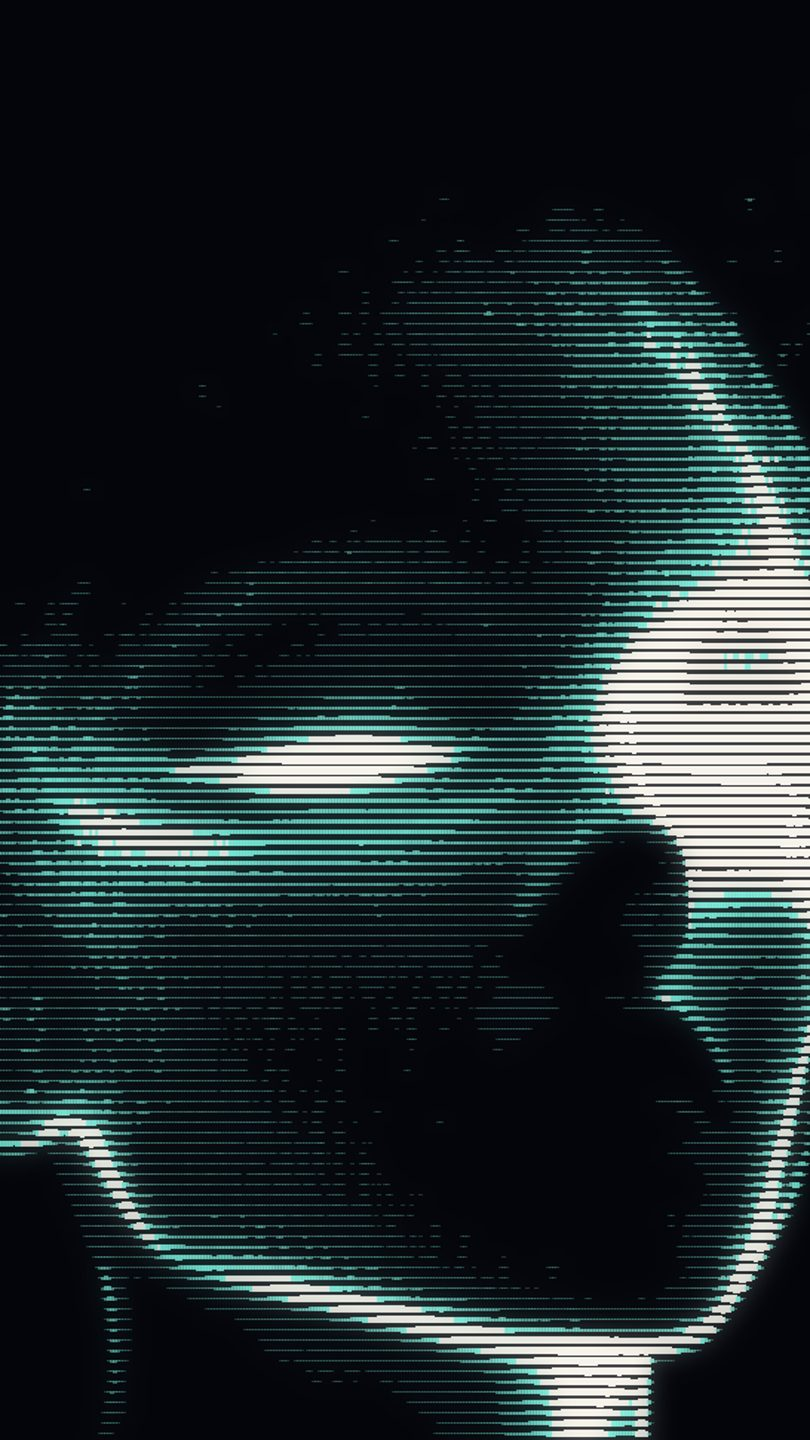
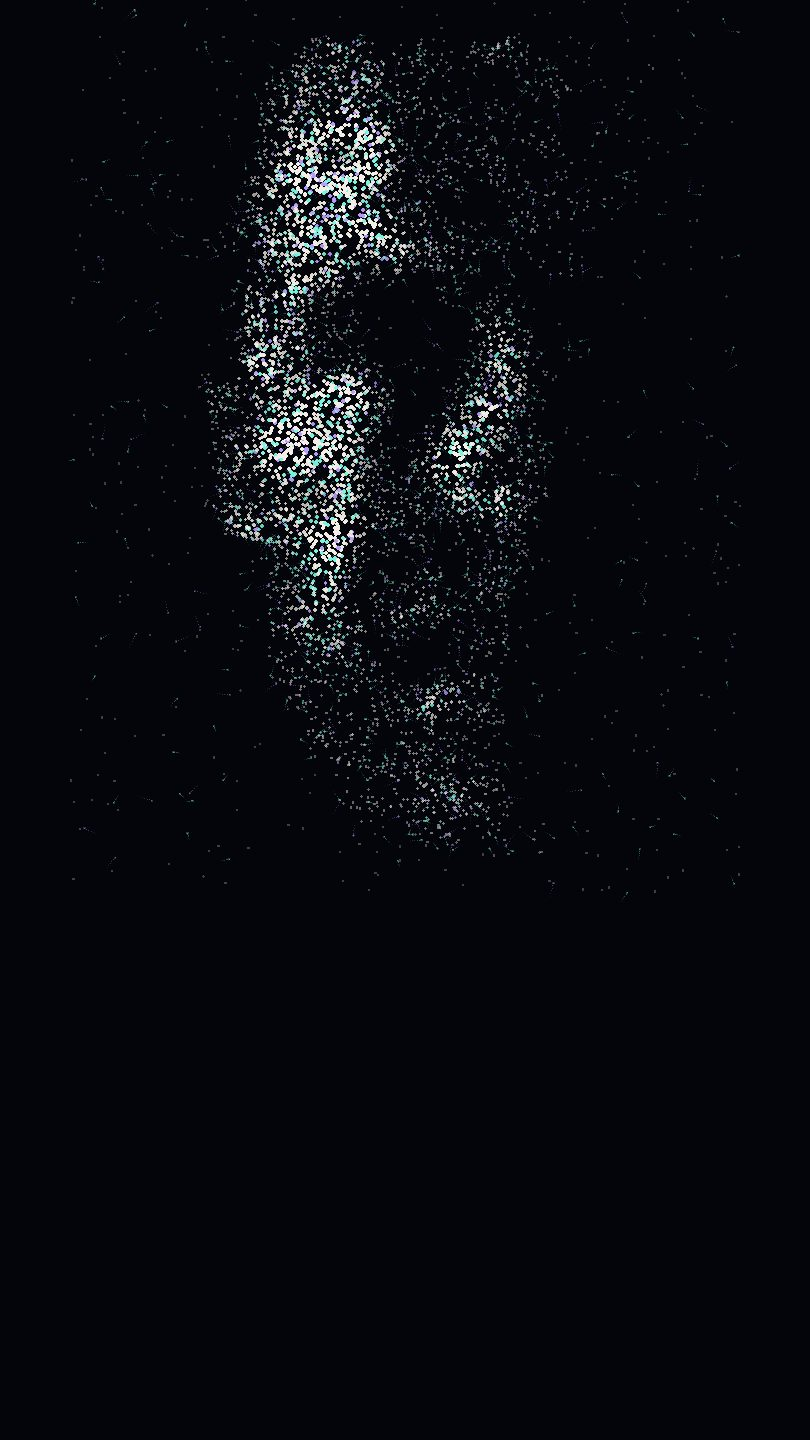
New hero

diff --git a/src/assets/js/asai.js b/src/assets/js/asai.js
@@ -5,24 +5,49 @@
 const prefersReducedMotion = matchMedia("(prefers-reduced-motion: reduce)").matches;
 
 /* ---------------------------------------------------------
-   Hero: the face as scanlines. The lines are rendered once to an
-   offscreen canvas from the bust's luminance (line thickness follows
-   brightness, like a CRT), then animated cheaply every frame: a refresh
-   sweep travelling down, a few rows of horizontal jitter, a soft breathe
-   and pointer parallax. Reduced motion keeps the static poster.
+   Hero: the drift field. The same stipple face as the section below,
+   larger and right of the headline. Dots ride a slow flow field and
+   leave fading trails; on a ~10 s cycle the face loosens into streams
+   and pulls itself back together. Colour follows motion: still dots are
+   cream, moving dots cyan, the fastest violet. Reduced motion keeps the
+   static poster.
    --------------------------------------------------------- */
-function initHeroLines() {
-  const root = document.querySelector("[data-hero-lines]");
+function initHeroDrift() {
+  const root = document.querySelector("[data-hero-drift]");
   const canvas = root?.querySelector("canvas");
   const src = root?.dataset.src;
   if (!root || !canvas || !src || prefersReducedMotion) return;
   const ctx = canvas.getContext("2d", { alpha: false });
   if (!ctx) return;
 
-  const styles = getComputedStyle(root);
-  const colorVoid = styles.getPropertyValue("--void").trim() || "#04050a";
-  const colorCyan = styles.getPropertyValue("--cyan").trim() || "#7cf4e0";
-  const colorCream = styles.getPropertyValue("--cream").trim() || "#f4efe6";
+  const CREAM = [244, 239, 230];
+  const CYAN = [124, 244, 224];
+  const VIOLET = [183, 156, 255];
+  const rgba = (c, a) => `rgba(${c[0] | 0},${c[1] | 0},${c[2] | 0},${a})`;
+  const mix = (p, q, t) => [p[0] + (q[0] - p[0]) * t, p[1] + (q[1] - p[1]) * t, p[2] + (q[2] - p[2]) * t];
+
+  // small value-noise field for the drift
+  const perm = new Uint8Array(512);
+  for (let i = 0; i < 256; i++) perm[i] = i;
+  for (let i = 255; i > 0; i--) {
+    const j = (Math.random() * (i + 1)) | 0;
+    [perm[i], perm[j]] = [perm[j], perm[i]];
+  }
+  for (let i = 0; i < 256; i++) perm[256 + i] = perm[i];
+  const fade = (t) => t * t * t * (t * (t * 6 - 15) + 10);
+  const lerp = (p, q, t) => p + t * (q - p);
+  const grad = (h, x, y) => (h & 1 ? -x : x) + (h & 2 ? -y : y);
+  function noise(x, y) {
+    const X = Math.floor(x) & 255;
+    const Y = Math.floor(y) & 255;
+    x -= Math.floor(x);
+    y -= Math.floor(y);
+    const u = fade(x);
+    const v = fade(y);
+    const A = perm[X] + Y;
+    const B = perm[X + 1] + Y;
+    return lerp(lerp(grad(perm[A], x, y), grad(perm[B], x - 1, y), u), lerp(grad(perm[A + 1], x, y - 1), grad(perm[B + 1], x - 1, y - 1), u), v);
+  }
 
   const image = new Image();
   image.decoding = "async";
@@ -31,53 +56,13 @@ function initHeroLines() {
   let width = 0;
   let height = 0;
   let dpr = 1;
-  let lines = null; // offscreen render of the scanlines
-  let box = { x: 0, y: 0, w: 0, h: 0 }; // where the figure sits
+  let pts = [];
   let pointer = { x: 0, y: 0 };
   let target = { x: 0, y: 0 };
   let frame = 0;
   let visible = true;
-  let jitter = []; // [{y, h, dx}]
-  let lastJitter = 0;
 
-  function renderLines() {
-    const pitch = width > 900 ? 6 : 5;
-    const col = 2;
-    const wide = width > 900;
-    // figure: fit the hero height on desktop, right of centre; on phones most of the width, at the top
-    const w = wide ? image.naturalWidth * (height / image.naturalHeight) : width * 0.78;
-    const h = image.naturalHeight * (w / image.naturalWidth);
-    const x0 = wide ? width * 0.72 - w / 2 : (width - w) / 2;
-    const y0 = wide ? 0 : -height * 0.02;
-    box = { x: x0, y: y0, w, h };
-    const cols = Math.ceil(w / col);
-    const rows = Math.ceil(h / pitch);
-    const off = document.createElement("canvas");
-    off.width = cols;
-    off.height = rows;
-    const octx = off.getContext("2d", { willReadFrequently: true });
-    octx.drawImage(image, 0, 0, cols, rows);
-    const data = octx.getImageData(0, 0, cols, rows).data;
-    lines = document.createElement("canvas");
-    lines.width = Math.ceil(width * dpr);
-    lines.height = Math.ceil(height * dpr);
-    const lctx = lines.getContext("2d");
-    lctx.scale(dpr, dpr);
-    for (let r = 0; r < rows; r++) {
-      const y = y0 + r * pitch + pitch / 2;
-      for (let c = 0; c < cols; c++) {
-        const l = Math.pow(data[(r * cols + c) * 4] / 255, 0.9);
-        if (l < 0.05) continue;
-        const th = Math.max(0.6, l * (pitch - 1.5));
-        lctx.globalAlpha = Math.min(1, 0.15 + l * 1.2);
-        lctx.fillStyle = l > 0.7 ? colorCream : colorCyan;
-        lctx.fillRect(x0 + c * col, y - th / 2, col, th);
-      }
-    }
-    lctx.globalAlpha = 1;
-  }
-
-  function layout() {
+  function build() {
     const rect = canvas.getBoundingClientRect();
     dpr = Math.min(devicePixelRatio || 1, 2);
     width = Math.round(rect.width);
@@ -85,69 +70,61 @@ function initHeroLines() {
     canvas.width = width * dpr;
     canvas.height = height * dpr;
     ctx.setTransform(dpr, 0, 0, dpr, 0, 0);
-    renderLines();
+    ctx.fillStyle = "#04050a";
+    ctx.fillRect(0, 0, width, height);
+    // figure: fills the hero height, right of centre on desktop; most of the width, at the top, on phones
+    const wide = width > 900;
+    const fh = wide ? height * 1.02 : (width * 0.85 * image.naturalHeight) / image.naturalWidth;
+    const fw = (image.naturalWidth * fh) / image.naturalHeight;
+    const fx = wide ? width * 0.72 - fw / 2 : (width - fw) / 2;
+    const fy = wide ? -height * 0.01 : -height * 0.02;
+    const cols = 180;
+    const rows = Math.round((cols * image.naturalHeight) / image.naturalWidth);
+    const off = document.createElement("canvas");
+    off.width = cols;
+    off.height = rows;
+    const octx = off.getContext("2d", { willReadFrequently: true });
+    octx.drawImage(image, 0, 0, cols, rows);
+    const data = octx.getImageData(0, 0, cols, rows).data;
+    pts = [];
+    const n = Math.round((width * height) / 190);
+    let guard = 0;
+    while (pts.length < n && guard++ < n * 40) {
+      const c = (Math.random() * cols) | 0;
+      const r = (Math.random() * rows) | 0;
+      const l = data[(r * cols + c) * 4] / 255;
+      if (Math.random() > Math.pow(l, 0.9) * 0.9 + 0.02) continue;
+      const x = fx + ((c + Math.random()) / cols) * fw;
+      const y = fy + ((r + Math.random()) / rows) * fh;
+      pts.push({ hx: x, hy: y, x, y, vx: 0, vy: 0, l, s: Math.random() });
+    }
   }
 
   function draw(t) {
     const time = t / 1000;
-    ctx.fillStyle = colorVoid;
-    ctx.fillRect(0, 0, width, height);
-    if (!lines) return;
     pointer.x += (target.x - pointer.x) * 0.04;
     pointer.y += (target.y - pointer.y) * 0.04;
-    const dx = pointer.x * 10;
-    const dy = pointer.y * 6 + Math.sin(time * 0.5) * 2;
-    const breathe = 0.86 + 0.08 * Math.sin(time * 0.9);
-
-    // the figure, with parallax and a slow breathe in brightness
-    ctx.globalAlpha = breathe;
-    ctx.drawImage(lines, 0, 0, lines.width, lines.height, dx, dy, width, height);
-
-    // horizontal jitter: a few rows slip sideways for a moment, like a loose signal
-    if (time - lastJitter > 0.35) {
-      lastJitter = time;
-      jitter = [];
-      if (Math.random() < 0.55) {
-        const n = 1 + ((Math.random() * 3) | 0);
-        for (let i = 0; i < n; i++) {
-          jitter.push({ y: box.y + Math.random() * box.h, h: 3 + Math.random() * 14, dx: (Math.random() - 0.5) * 26 });
-        }
-      }
+    // trails: fade the last frame instead of clearing it
+    ctx.fillStyle = "rgba(4,5,10,0.22)";
+    ctx.fillRect(0, 0, width, height);
+    // the field swells and fades on a ~10 s cycle
+    const loose = 0.5 + 0.5 * Math.sin(time * 0.6);
+    for (const p of pts) {
+      const tx = p.hx + pointer.x * (12 + p.s * 18);
+      const ty = p.hy + pointer.y * (8 + p.s * 10);
+      const a = noise(p.x * 0.004 + time * 0.05, p.y * 0.004) * Math.PI * 2;
+      p.vx += (tx - p.x) * 0.05 * (1 - loose * 0.7) + Math.cos(a) * 0.55 * loose;
+      p.vy += (ty - p.y) * 0.05 * (1 - loose * 0.7) + Math.sin(a) * 0.55 * loose;
+      p.vx *= 0.86;
+      p.vy *= 0.86;
+      p.x += p.vx;
+      p.y += p.vy;
+      const sp = Math.min(1, Math.hypot(p.vx, p.vy) / 2.5);
+      const col = sp < 0.5 ? mix(CREAM, CYAN, sp * 2) : mix(CYAN, VIOLET, (sp - 0.5) * 2);
+      ctx.fillStyle = rgba(col, Math.min(1, 0.25 + p.l * 0.8));
+      const r = 0.7 + p.l * 1.2;
+      ctx.fillRect(p.x - r / 2, p.y - r / 2, r, r);
     }
-    for (const j of jitter) {
-      const sy = j.y * dpr;
-      const sh = j.h * dpr;
-      ctx.fillStyle = colorVoid;
-      ctx.fillRect(0, j.y + dy, width, j.h);
-      ctx.drawImage(lines, 0, sy, lines.width, sh, dx + j.dx, j.y + dy, width, j.h);
-    }
-
-    // refresh sweep: a soft band travelling down the figure, brightening the lines it crosses
-    const period = 7;
-    const p = (time % period) / period;
-    const bandY = box.y - 80 + p * (box.h + 160);
-    const bandH = 110;
-    ctx.save();
-    ctx.globalCompositeOperation = "lighter";
-    const g = ctx.createLinearGradient(0, bandY, 0, bandY + bandH);
-    g.addColorStop(0, "rgba(124,244,224,0)");
-    g.addColorStop(0.5, "rgba(124,244,224,0.9)");
-    g.addColorStop(1, "rgba(124,244,224,0)");
-    ctx.globalAlpha = 0.5;
-    ctx.beginPath();
-    ctx.rect(0, bandY, width, bandH);
-    ctx.clip();
-    ctx.drawImage(lines, 0, 0, lines.width, lines.height, dx, dy, width, height);
-    ctx.globalAlpha = 0.07;
-    ctx.fillStyle = g;
-    ctx.fillRect(0, bandY, width, bandH);
-    ctx.restore();
-
-    // a faint raster over everything, so the whole hero reads as a screen
-    ctx.globalAlpha = 0.06;
-    ctx.fillStyle = colorVoid;
-    for (let y = ((time * 18) % 4) - 4; y < height; y += 4) ctx.fillRect(0, y, width, 1);
-    ctx.globalAlpha = 1;
   }
 
   function tick(t) {
@@ -157,7 +134,7 @@ function initHeroLines() {
 
   function start() {
     root.classList.add("is-live");
-    layout();
+    build();
     new IntersectionObserver(
       ([entry]) => {
         visible = entry.isIntersecting;
@@ -181,7 +158,7 @@ function initHeroLines() {
     let resizeTimer = 0;
     addEventListener("resize", () => {
       clearTimeout(resizeTimer);
-      resizeTimer = setTimeout(layout, 150);
+      resizeTimer = setTimeout(build, 150);
     });
   }
 
@@ -426,7 +403,7 @@ function initJourney() {
   if (journey.classList.contains("is-in")) steps.forEach((s) => s.classList.add("is-lit"));
 }
 
-initHeroLines();
+initHeroDrift();
 initDataFace();
 initMonologue();
 initJourney();

diff --git a/src/assets/css/styles.css b/src/assets/css/styles.css
@@ -662,13 +662,13 @@ html.js [data-reveal="d3"]{transition-delay:.3s}
    Figures are inline SVG / canvas; asai.js drives the canvas,
    the monologue and the journey stepper via data-* hooks.
    --------------------------------------------------------- */
-/* hero: the face as scanlines, drawn live by asai.js (static poster until it starts) */
+/* hero: the stipple face as a drift field, drawn live by asai.js (static poster until it starts) */
 .page-hero--tall{min-height:min(82vh,50rem)}
-.bg-lines{position:absolute;inset:0;z-index:0;overflow:hidden;background:var(--void);pointer-events:none}
-.bg-lines__canvas,.bg-lines__fallback{position:absolute;inset:0;width:100%;height:100%;display:block;object-fit:cover;object-position:right center}
-.bg-lines.is-live .bg-lines__fallback{display:none}
-.bg-lines:not(.is-live) .bg-lines__canvas{display:none}
-.bg-lines::after{content:"";position:absolute;inset:0;background:linear-gradient(90deg,rgba(4,5,10,.6),rgba(4,5,10,.2) 40%,transparent 65%),linear-gradient(180deg,rgba(4,5,10,.35),transparent 30%,transparent 65%,var(--void))}
+.bg-drift{position:absolute;inset:0;z-index:0;overflow:hidden;background:var(--void);pointer-events:none}
+.bg-drift__canvas,.bg-drift__fallback{position:absolute;inset:0;width:100%;height:100%;display:block;object-fit:cover;object-position:right center}
+.bg-drift.is-live .bg-drift__fallback{display:none}
+.bg-drift:not(.is-live) .bg-drift__canvas{display:none}
+.bg-drift::after{content:"";position:absolute;inset:0;background:linear-gradient(90deg,rgba(4,5,10,.6),rgba(4,5,10,.2) 40%,transparent 65%),linear-gradient(180deg,rgba(4,5,10,.35),transparent 30%,transparent 65%,var(--void))}
 
 /* the "data face": canvas + internal monologue */
 .mind{display:grid;grid-template-columns:minmax(0,1.25fr) minmax(17rem,.75fr);gap:1px;border:1px solid var(--line);border-radius:var(--radius);background:var(--line);overflow:hidden;box-shadow:0 30px 90px rgba(0,0,0,.45)}
@@ -785,8 +785,8 @@ html:not(.js) .journey__node::after{opacity:1;transform:none}
 }
 @media (max-width:900px){
   .page-hero--tall{min-height:min(100svh,60rem)}
-  .bg-lines__fallback{object-position:center top}
-  .bg-lines::after{background:linear-gradient(180deg,rgba(4,5,10,.2),rgba(4,5,10,.1) 38%,rgba(4,5,10,.88) 66%,var(--void))}
+  .bg-drift__fallback{object-position:center top}
+  .bg-drift::after{background:linear-gradient(180deg,rgba(4,5,10,.2),rgba(4,5,10,.1) 38%,rgba(4,5,10,.88) 66%,var(--void))}
   .mind{grid-template-columns:1fr;border-radius:1rem}
   .mind__view{aspect-ratio:4/5;min-height:0}
   .mind__corner--bl{display:none}

diff --git a/src/research/asai.html b/src/research/asai.html
@@ -13,11 +13,11 @@ scripts: ["/assets/js/asai.js"]
 
 <!-- ============ PAGE HERO ============ -->
 <section class="page-hero page-hero--tall">
-  <div class="bg-lines" data-hero-lines data-src="{{ '/assets/images/asai-bust.jpg' | withBase }}" aria-hidden="true">
-    <canvas class="bg-lines__canvas"></canvas>
+  <div class="bg-drift" data-hero-drift data-src="{{ '/assets/images/asai-face.png' | withBase }}" aria-hidden="true">
+    <canvas class="bg-drift__canvas"></canvas>
     <picture>
       <source media="(max-width: 900px)" srcset="/assets/images/asai-hero-mobile.jpg">
-      <img class="bg-lines__fallback" src="/assets/images/asai-hero.jpg" width="1920" height="1080" alt="" decoding="async">
+      <img class="bg-drift__fallback" src="/assets/images/asai-hero.jpg" width="1920" height="1080" alt="" decoding="async">
     </picture>
   </div>
   <div class="wrap page-hero__grid">

diff --git a/README.md b/README.md
@@ -32,7 +32,7 @@ src/
   assets/css/styles.css     all styles (bundled with fonts.css by Lightning CSS)
   assets/js/main.js         site-wide behaviour (bundled by esbuild, loaded on every page)
   assets/js/scout-stages.js RoboZET 3D model (three.js); page-only bundle, see `scripts` below
-  assets/js/asai.js         Asai hero scanlines, data-face canvas, monologue, journey stepper; page-only bundle
+  assets/js/asai.js         Asai hero drift field, stipple face canvas, monologue, journey stepper; page-only bundle
   assets/fonts|images|video static files, copied as-is
 lib/schema.js               JSON-LD structured data
 eleventy.config.js          build configuration
